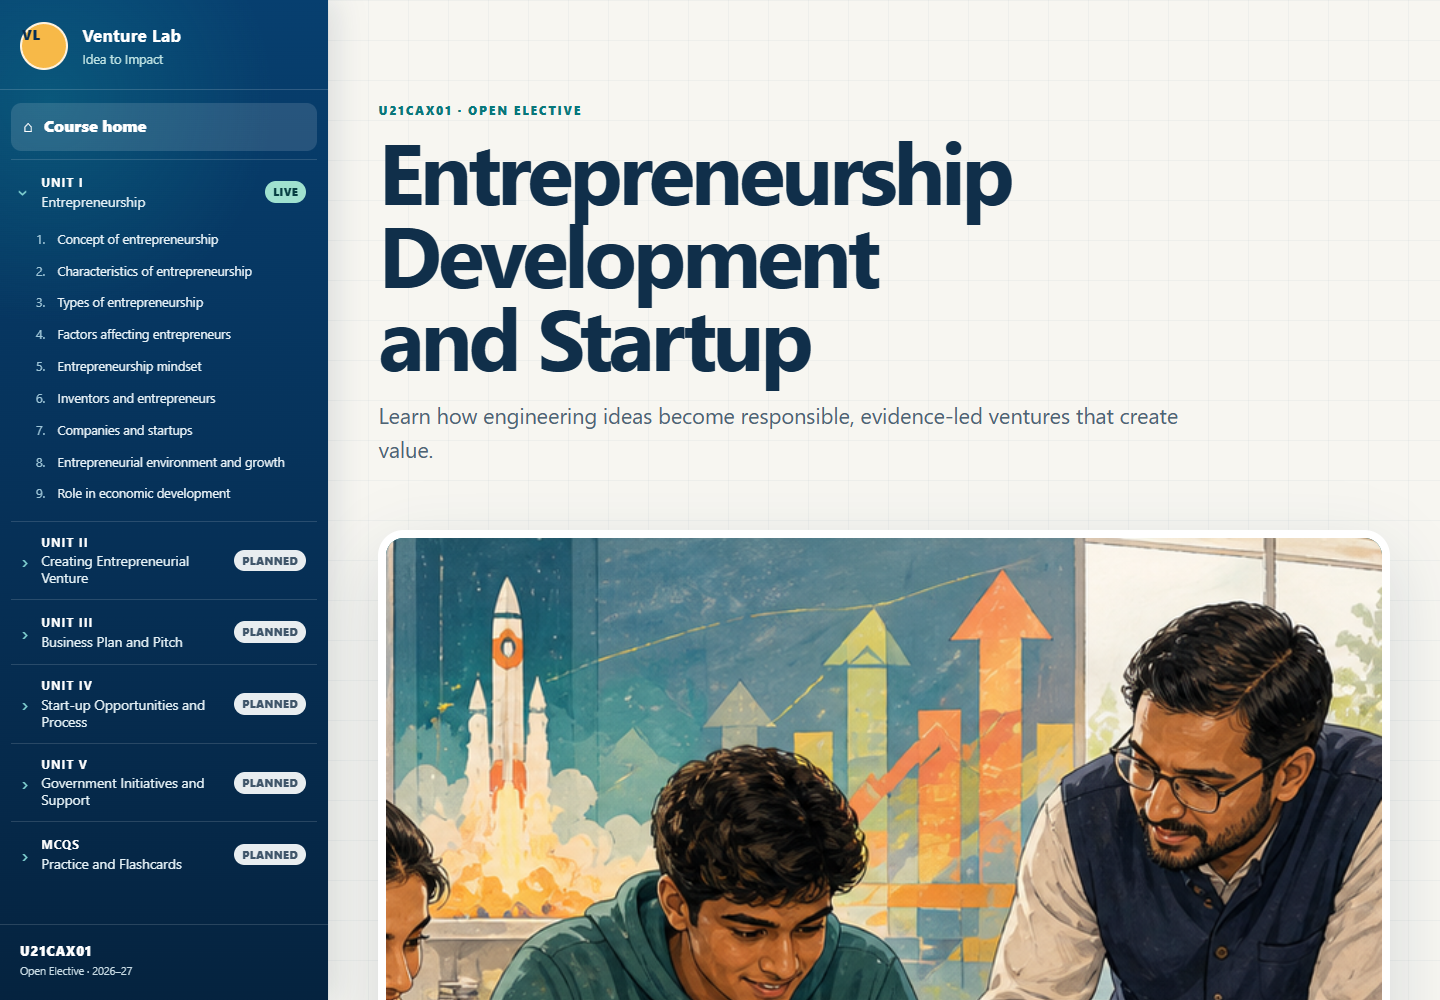
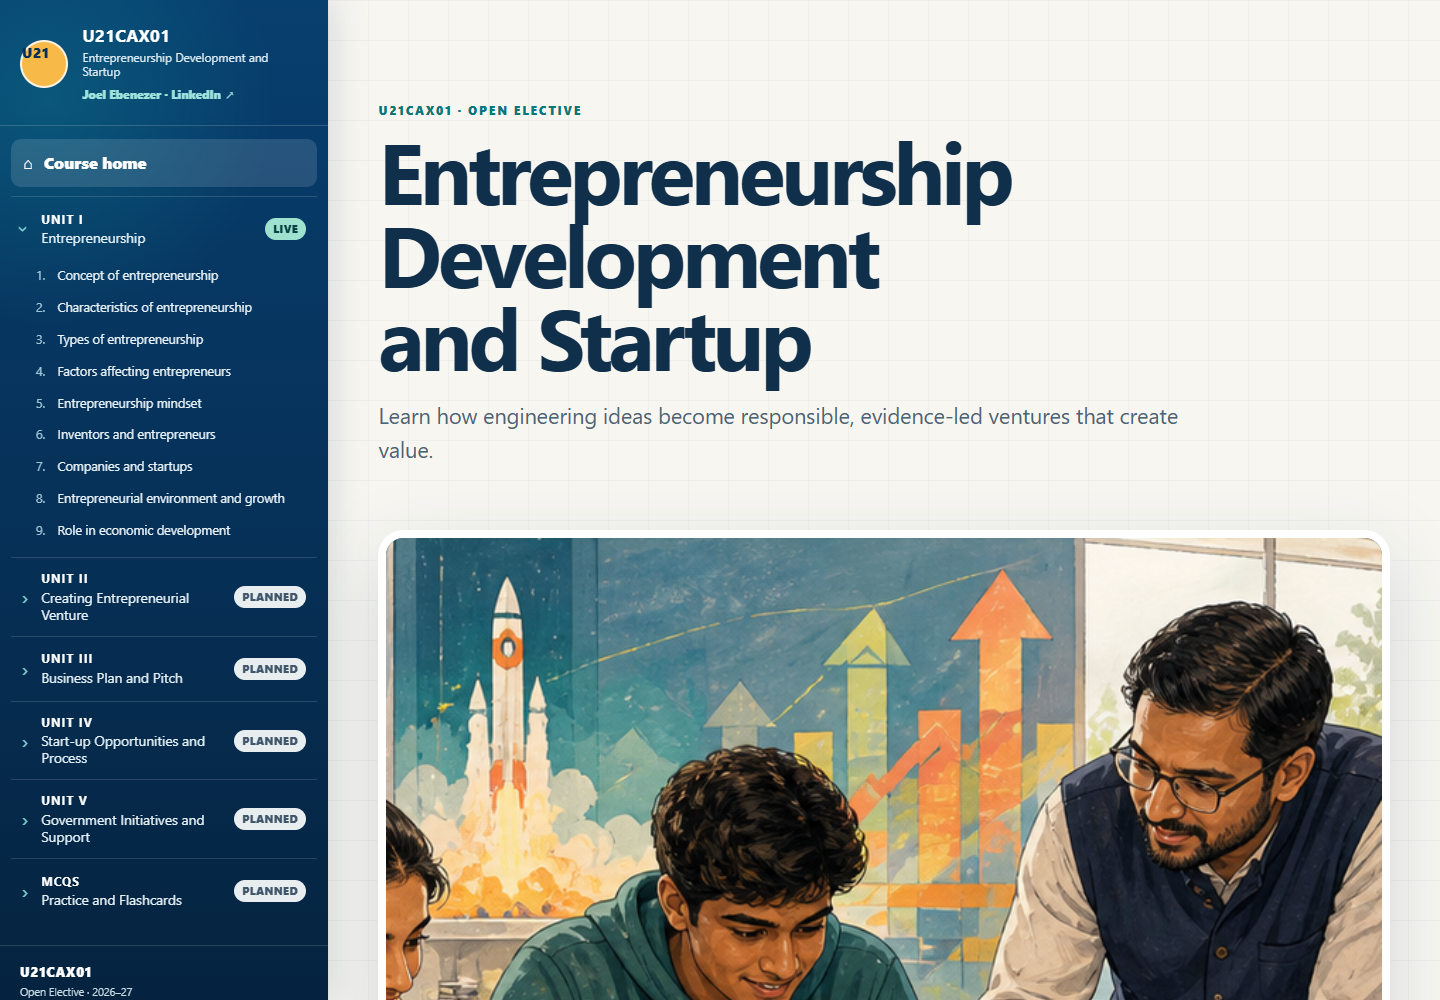
Replace temporary brand with course identity and LinkedIn

Changed region(s): [[0.0, 0.031, 0.2188, 1.0]]

diff --git a/index.html b/index.html
@@ -29,10 +29,17 @@
 
   <aside class="course-sidebar" id="course-sidebar" aria-label="Course units">
     <div class="sidebar-brand">
-      <span class="brand-mark" aria-hidden="true">VL</span>
+      <span class="brand-mark" aria-hidden="true">U21</span>
       <div>
-        <strong>Venture Lab</strong>
-        <span>Idea to Impact</span>
+        <strong>U21CAX01</strong>
+        <span class="brand-course-title">Entrepreneurship Development and Startup</span>
+        <a class="brand-profile"
+           href="https://www.linkedin.com/in/joelebenezer/"
+           target="_blank"
+           rel="noopener noreferrer"
+           aria-label="Joel Ebenezer on LinkedIn (opens in a new tab)">
+          Joel Ebenezer · LinkedIn <span aria-hidden="true">↗</span>
+        </a>
       </div>
     </div>
 
@@ -165,8 +172,8 @@
 
     <section class="welcome-section" aria-labelledby="welcome-title">
       <div class="welcome-copy">
-        <p class="eyebrow">Welcome to Venture Lab</p>
-        <h2 id="welcome-title">Move from idea to impact</h2>
+        <p class="eyebrow">Welcome to U21CAX01</p>
+        <h2 id="welcome-title">From opportunity to enterprise</h2>
         <p>
           This course space brings the syllabus to life through short, visual
           interactions. Begin with Unit I to explore the language, mindset and

diff --git a/assets/styles.css b/assets/styles.css
@@ -244,7 +244,7 @@ h1 { margin: 0; font-size: clamp(3rem, 8vw, 6.8rem); line-height: .95; letter-sp
   *, *::before, *::after { scroll-behavior: auto !important; transition: none !important; }
 }
 
-/* Course home: Canvas-inspired unit rail and Venture Lab content area */
+/* Course home: Canvas-inspired unit rail and course content area */
 .course-home {
   --sidebar-width: 20.5rem;
   color: #18324a;
@@ -288,7 +288,25 @@ h1 { margin: 0; font-size: clamp(3rem, 8vw, 6.8rem); line-height: .95; letter-sp
 .sidebar-brand strong,
 .sidebar-brand span { display: block; }
 .sidebar-brand strong { font-size: 1.08rem; letter-spacing: .01em; }
-.sidebar-brand div > span { color: #bfe3e3; font-size: .79rem; }
+.sidebar-brand .brand-course-title {
+  max-width: 13rem;
+  margin-top: .08rem;
+  color: #dbeaf1;
+  font-size: .74rem;
+  line-height: 1.25;
+}
+.brand-profile {
+  display: inline-flex;
+  align-items: center;
+  gap: .28rem;
+  margin-top: .38rem;
+  color: #9ee3dc;
+  font-size: .73rem;
+  font-weight: 800;
+  text-decoration: none;
+}
+.brand-profile span { display: inline; }
+.brand-profile:hover { color: #fff; text-decoration: underline; }
 .unit-navigation { padding: .8rem .7rem 1.4rem; }
 .sidebar-home {
   display: flex;
